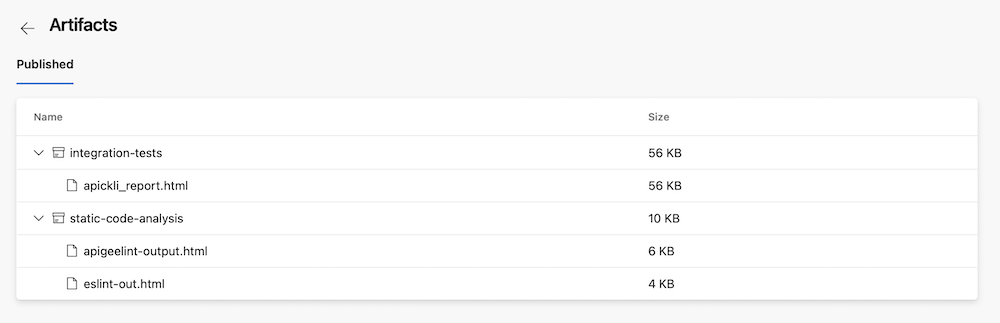
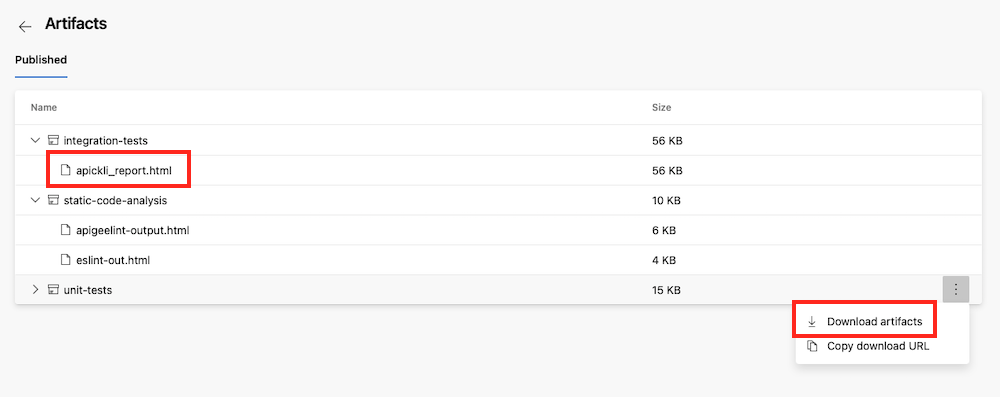
Add Mocha test

diff --git a/README.md b/README.md
@@ -178,11 +178,11 @@ Use the Azure DeveOps UI to monitor your pipeline execution and read test report
 
 ![Job Summary](./images/ended-job.png)
 
-- Click on artifact link, to access artifact folders and list
+- Click on artifact link, to access artifact folders and list. 
 
 ![Artifact List](./images/artifact-list.png)
 
-- Click on artifact, to download it. Open file with your browser. For example, Apickli report:
+- Click on artifact, to download it (you can also click on **More Options** menu to download a zipped folder). Open file with your browser. For example, Apickli report:
 
 ![Apicli Report](./images/apickli-report.png)
 
